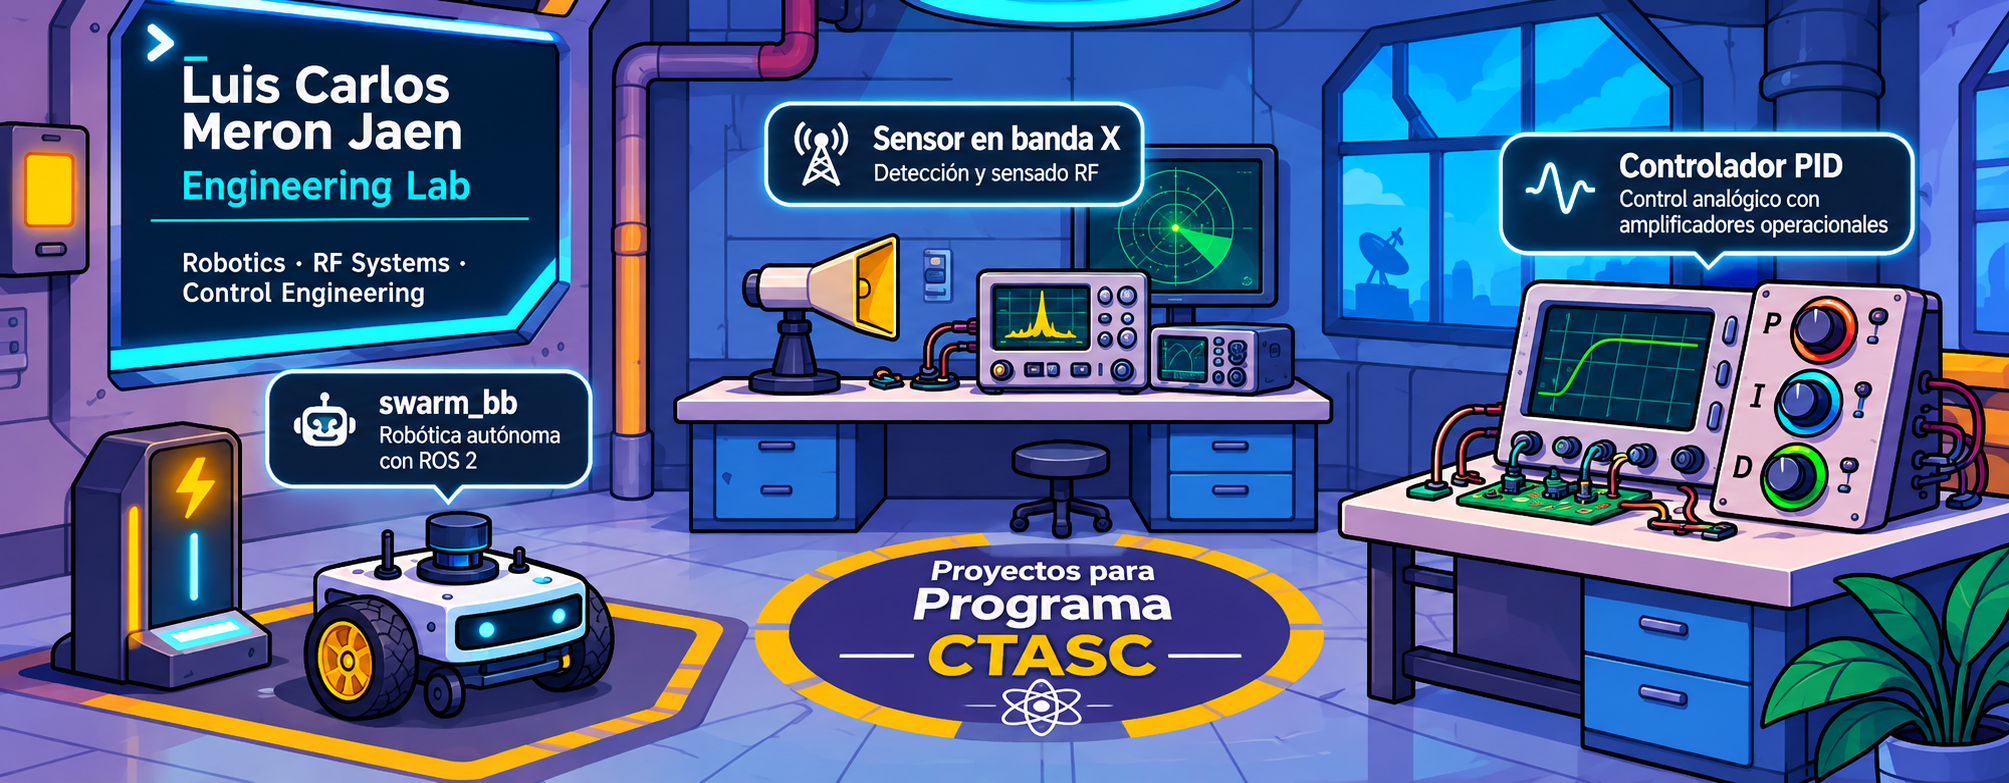
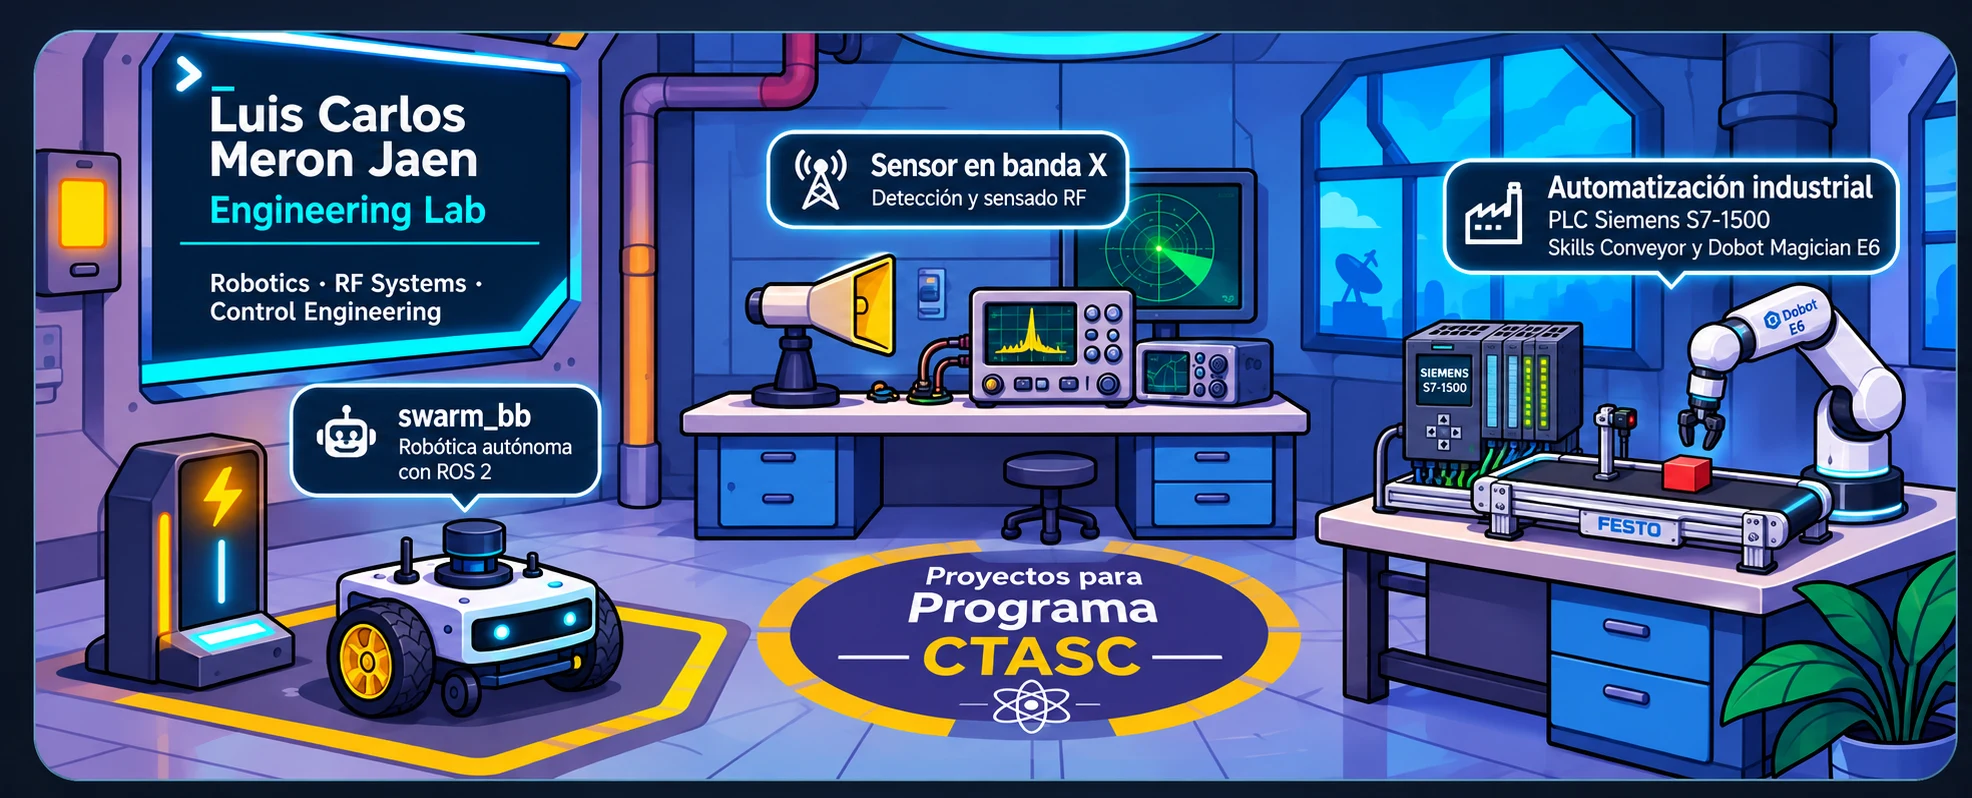
Nueva escena con la celda de automatización
La estación derecha pasa a ser la celda Dobot E6 + PLC S7-1500: su hotspot
y la tarjeta 05 abren https://lcmj2803.github.io/ros2-dobot/. El PID queda
solo como tarjeta. Proporción de la escena ajustada a 1972x798.

diff --git a/index.html b/index.html
@@ -29,7 +29,7 @@
     <!-- ESCENA: imagen de fondo + tres áreas de clic independientes. -->
     <section class="scene-wrap" aria-label="Laboratorio virtual interactivo">
       <div class="scene">
-        <img class="scene-image" src="assets/laboratorio.webp" width="1536" height="600" alt="Laboratorio retrofuturista con un robot a la izquierda, un banco RF en el centro y un controlador PID a la derecha.">
+        <img class="scene-image" src="assets/laboratorio.webp" width="1972" height="798" alt="Laboratorio retrofuturista con un robot a la izquierda, un banco RF en el centro y, a la derecha, una celda de automatización con un PLC Siemens S7-1500, una banda Festo y un brazo Dobot Magician E6.">
         <!-- Estas zonas son porcentajes del ancho/alto de la ilustración.
              Al crear una nueva ilustración, se reajustan aquí. -->
         <a class="hotspot robot" href="projects/swarm-bb.html" aria-label="Abrir proyecto swarm_bb" style="--x: 10%; --y: 46%; --w: 26%; --h: 51%;">
@@ -38,8 +38,8 @@
         <a class="hotspot rf" href="projects/banda-x.html" aria-label="Abrir proyecto Sensor en banda X" style="--x: 35%; --y: 12%; --w: 31%; --h: 57%;">
           <span class="hotspot-label">📡 Explorar sensor en banda X <span aria-hidden="true">↗</span></span>
         </a>
-        <a class="hotspot pid" href="projects/pid-analogico.html" aria-label="Abrir proyecto PID analógico" style="--x: 67%; --y: 16%; --w: 31%; --h: 78%;">
-          <span class="hotspot-label">🎛 Explorar PID analógico <span aria-hidden="true">↗</span></span>
+        <a class="hotspot auto" href="https://lcmj2803.github.io/ros2-dobot/" aria-label="Abrir proyecto Celda Dobot E6 y PLC S7-1500" style="--x: 67%; --y: 18%; --w: 31%; --h: 76%;">
+          <span class="hotspot-label">🏭 Explorar automatización industrial <span aria-hidden="true">↗</span></span>
         </a>
       </div>
       <p class="scene-tip"><span aria-hidden="true">✦</span> Pulsa un equipo para explorar su proyecto. En móvil, usa también las tarjetas inferiores.</p>
@@ -52,6 +52,7 @@
         <a class="project-card rf-card" href="projects/banda-x.html"><div class="card-icon" aria-hidden="true">📡</div><span class="number">02 / RADIOFRECUENCIA</span><h3>Sensor en banda X</h3><p>Prototipo de detección RF, pruebas y evolución del circuito.</p><span class="card-action">Entrar al proyecto ↗</span></a>
         <a class="project-card pid-card" href="projects/pid-analogico.html"><div class="card-icon" aria-hidden="true">🎛</div><span class="number">03 / CONTROL</span><h3>PID analógico</h3><p>Control proporcional, integral y derivativo con amplificadores operacionales.</p><span class="card-action">Entrar al proyecto ↗</span></a>
         <a class="project-card robot-card" href="https://lcmj2803.github.io/coms_proyecto2/"><div class="card-icon" aria-hidden="true">෴</div><span class="number">04 / COMUNICACIONES</span><h3>RadioML</h3><p>Identificación de esquemas de modulación por medio de ML Clásico y DL.</p><span class="card-action">Entrar al proyecto ↗</span></a>
+        <a class="project-card auto-card" href="https://lcmj2803.github.io/ros2-dobot/"><div class="card-icon" aria-hidden="true">🏭</div><span class="number">05 / AUTOMATIZACIÓN</span><h3>Celda Dobot E6 y PLC S7-1500</h3><p>Banda Festo con máquina de estados en un S7-1500, Dobot Magician E6 con ROS 2 y datos para mantenimiento.</p><span class="card-action">Entrar al proyecto ↗</span></a>
       </div>
     </section>
 

diff --git a/styles.css b/styles.css
@@ -21,7 +21,7 @@ h2 { font-size: clamp(1.6rem, 3vw, 2.3rem); margin: 10px 0 0; letter-spacing: -.
 h3 { margin: 8px 0; font-size: 1.3rem; }
 .intro p { max-width: 660px; font-size: 1.04rem; line-height: 1.65; color: var(--muted); }
 .scene-wrap { max-width: 1220px; margin: 24px auto 64px; padding: 0 26px; }
-.scene { position: relative; overflow: hidden; isolation: isolate; border-radius: 20px; border: 1px solid #7fc9f6aa; box-shadow: 0 26px 80px #0008, 0 0 24px #58daf120; aspect-ratio: 1536/600; background: #18264b; }
+.scene { position: relative; overflow: hidden; isolation: isolate; border-radius: 20px; border: 1px solid #7fc9f6aa; box-shadow: 0 26px 80px #0008, 0 0 24px #58daf120; aspect-ratio: 1972/798; background: #18264b; }
 .scene-image { display: block; width: 100%; height: 100%; object-fit: fill; }
 .hotspot { position: absolute; z-index: 3; left: var(--x); top: var(--y); width: var(--w); height: var(--h); border-radius: 16px; text-decoration: none; transition: background .16s ease, box-shadow .16s ease, transform .16s ease; }
 .hotspot:hover, .hotspot:focus-visible { background: #69f4f11a; box-shadow: inset 0 0 0 3px #6ef0ffde, 0 0 40px #40edff50; transform: translateY(-3px); }
@@ -39,7 +39,7 @@ h3 { margin: 8px 0; font-size: 1.3rem; }
 .project-card .number { color: var(--cyan); letter-spacing: .12em; font-size: .68rem; font-weight: 800; }
 .project-card p { color: var(--muted); line-height: 1.5; font-size: .89rem; margin-bottom: 30px; }
 .project-card .card-action { color: var(--cyan); font-weight: 750; font-size: .85rem; position: absolute; bottom: 20px; }
-.robot-card .card-icon { background: #554268; }.rf-card .card-icon { background: #315a67; }.pid-card .card-icon { background: #67514a; }
+.robot-card .card-icon { background: #554268; }.rf-card .card-icon { background: #315a67; }.pid-card .card-icon { background: #67514a; }.auto-card .card-icon { background: #3b4f7a; }
 .about { max-width: 1168px; margin: 0 auto 72px; padding: 32px; background: #152542b9; border: 1px solid #314d78; border-radius: var(--round); display: flex; align-items: center; gap: 25px; }
 .about-symbol { font-family: Georgia, serif; font-size: 65px; color: var(--cyan); background: #263d60; width: 105px; min-width: 105px; height: 105px; display: grid; place-items: center; border-radius: 22px; }
 .about p { color: var(--muted); line-height: 1.7; max-width: 760px; }
